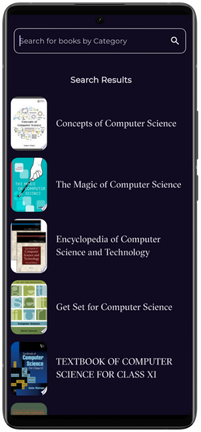
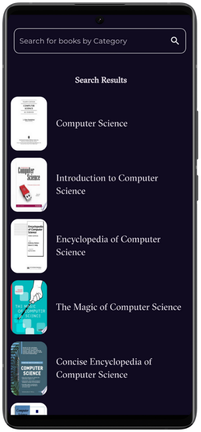
Add helper style to CustomSearchTextField with kGtSectraFine font

diff --git a/lib/features/search/presentation/view/widgets/custom_search_text_field.dart b/lib/features/search/presentation/view/widgets/custom_search_text_field.dart
@@ -1,3 +1,5 @@
+import 'package:book_store_app/constants.dart';
+
 import '../../search_cubit/search_cubit.dart';
 import 'package:flutter/material.dart';
 import 'package:flutter_bloc/flutter_bloc.dart';
@@ -28,6 +30,9 @@ class CustomSearchTextField extends StatelessWidget {
         enabledBorder: buildOutlLinedInputBorder(),
         focusedBorder: buildOutlLinedInputBorder(),
         hintText: 'Search for books by Category',
+        helperStyle: const TextStyle(
+          fontFamily: kGtSectraFine,
+        ),
         border: const OutlineInputBorder(
           borderRadius: BorderRadius.all(Radius.circular(10)),
         ),
